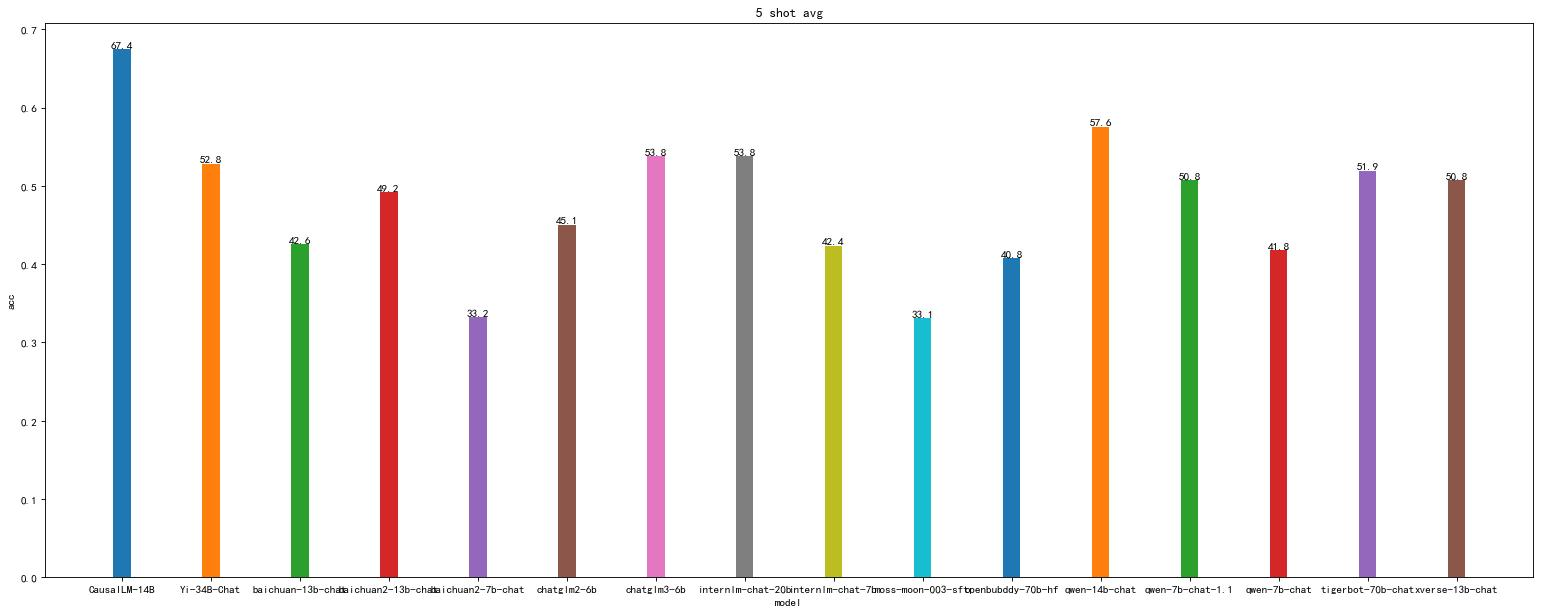
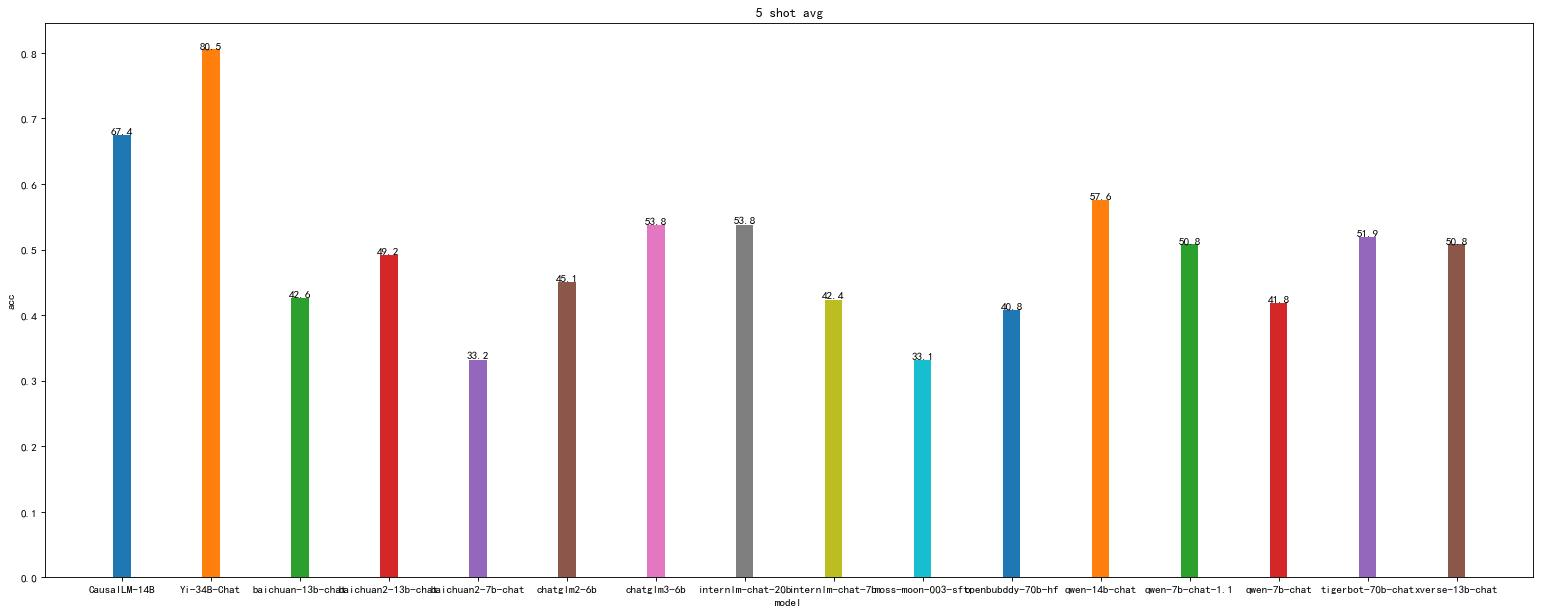
fix yi 34b evals

diff --git a/README.md b/README.md
@@ -89,24 +89,24 @@ python run_struct.py
 
 ## ceval 评测结果
 
-|   |  Humanities | Other    | STEM  | Social Science | avg  |
-|---|---|----------|---|---|---|
-| CausalLM-14B        | 0.663914 | 0.637955 | 0.600674 | 0.794810 | 0.674338 |
-| qwen-14b-chat       | 0.620447 | 0.491222 | 0.424681 | 0.766020 | 0.575592 |
-| internlm-chat-20b   | 0.546446 | 0.509072 | 0.453659 | 0.642228 | 0.537851 |
-| chatglm3-6b         | 0.549423 | 0.499834 | 0.454510 | 0.646843 | 0.537653 |
-| Yi-34B-Chat         | 0.558252 | 0.510972 | 0.413072 | 0.630915 | 0.528303 |
-| tigerbot-70b-chat   | 0.490036 | 0.501515 | 0.469567 | 0.616296 | 0.519353 |
-| xverse-13b-chat     | 0.571704 | 0.497663 | 0.412816 | 0.549555 | 0.507934 |
-| qwen-7b-chat-1.1    | 0.574261 | 0.408386 | 0.345937 | 0.703139 | 0.507931 |
-| baichuan2-13b-chat  | 0.549827 | 0.483367 | 0.339767 | 0.593834 | 0.491699 |
-| chatglm2-6b         | 0.482636 | 0.389378 | 0.390288 | 0.540419 | 0.450680 |
-| baichuan-13b-chat   | 0.457822 | 0.382894 | 0.362210 | 0.500072 | 0.425749 | 
-| internlm-chat-7b    | 0.436149 | 0.374493 | 0.337945 | 0.546048 | 0.423659 | 
-| qwen-7b-chat        | 0.469850 | 0.383362 | 0.277942 | 0.540077 | 0.417808 | 
-| openbubddy-70b-hf   | 0.429761 | 0.406713 | 0.316785 | 0.479382 | 0.408160 | 
-| baichuan2-7b-chat   | 0.355095 | 0.317900 | 0.241941 | 0.414046 | 0.332245 | 
-| moss-moon-003-sft   | 0.324761 | 0.340964 | 0.297175 | 0.361035 | 0.330984 | 
+|   |  Humanities | Other     | STEM  | Social Science | avg  |
+|---|---|-----------|---|---|---|
+| Yi-34B-Chat         | 0.848586 | 0.798456  | 0.681462 | 0.892582 | 0.805271 |
+| CausalLM-14B        | 0.663914 | 0.637955  | 0.600674 | 0.794810 | 0.674338 |
+| qwen-14b-chat       | 0.620447 | 0.491222  | 0.424681 | 0.766020 | 0.575592 |
+| internlm-chat-20b   | 0.546446 | 0.509072  | 0.453659 | 0.642228 | 0.537851 |
+| chatglm3-6b         | 0.549423 | 0.499834  | 0.454510 | 0.646843 | 0.537653 |
+| tigerbot-70b-chat   | 0.490036 | 0.501515  | 0.469567 | 0.616296 | 0.519353 |
+| xverse-13b-chat     | 0.571704 | 0.497663  | 0.412816 | 0.549555 | 0.507934 |
+| qwen-7b-chat-1.1    | 0.574261 | 0.408386  | 0.345937 | 0.703139 | 0.507931 |
+| baichuan2-13b-chat  | 0.549827 | 0.483367  | 0.339767 | 0.593834 | 0.491699 |
+| chatglm2-6b         | 0.482636 | 0.389378  | 0.390288 | 0.540419 | 0.450680 |
+| baichuan-13b-chat   | 0.457822 | 0.382894  | 0.362210 | 0.500072 | 0.425749 | 
+| internlm-chat-7b    | 0.436149 | 0.374493  | 0.337945 | 0.546048 | 0.423659 | 
+| qwen-7b-chat        | 0.469850 | 0.383362  | 0.277942 | 0.540077 | 0.417808 | 
+| openbubddy-70b-hf   | 0.429761 | 0.406713  | 0.316785 | 0.479382 | 0.408160 | 
+| baichuan2-7b-chat   | 0.355095 | 0.317900  | 0.241941 | 0.414046 | 0.332245 | 
+| moss-moon-003-sft   | 0.324761 | 0.340964  | 0.297175 | 0.361035 | 0.330984 | 
 
 
 
